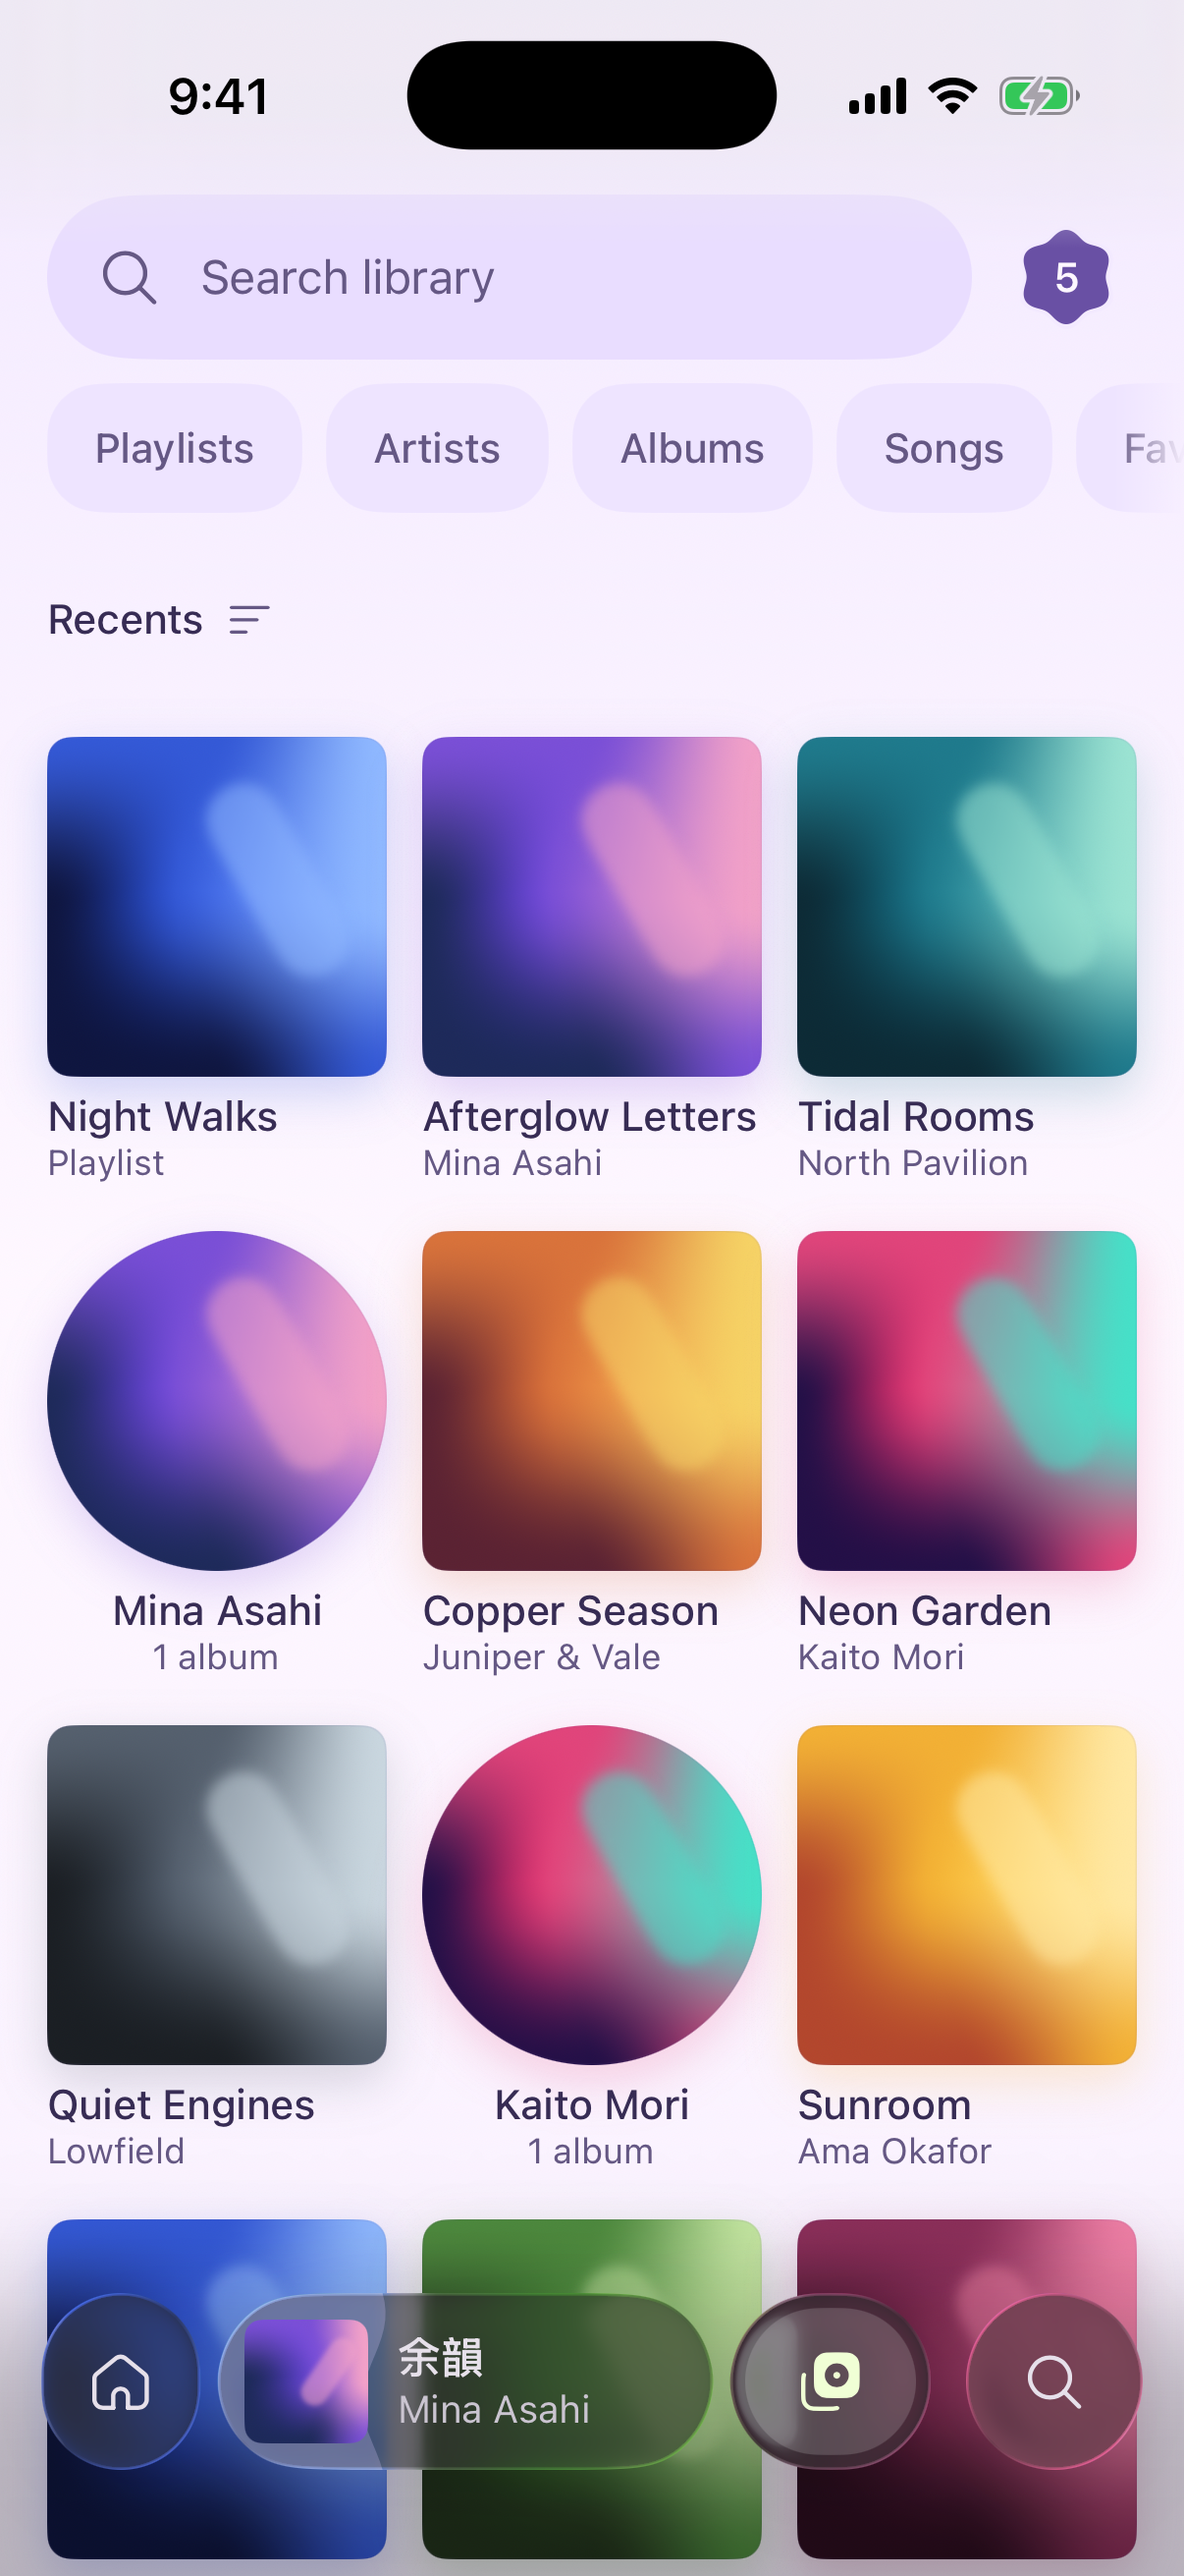
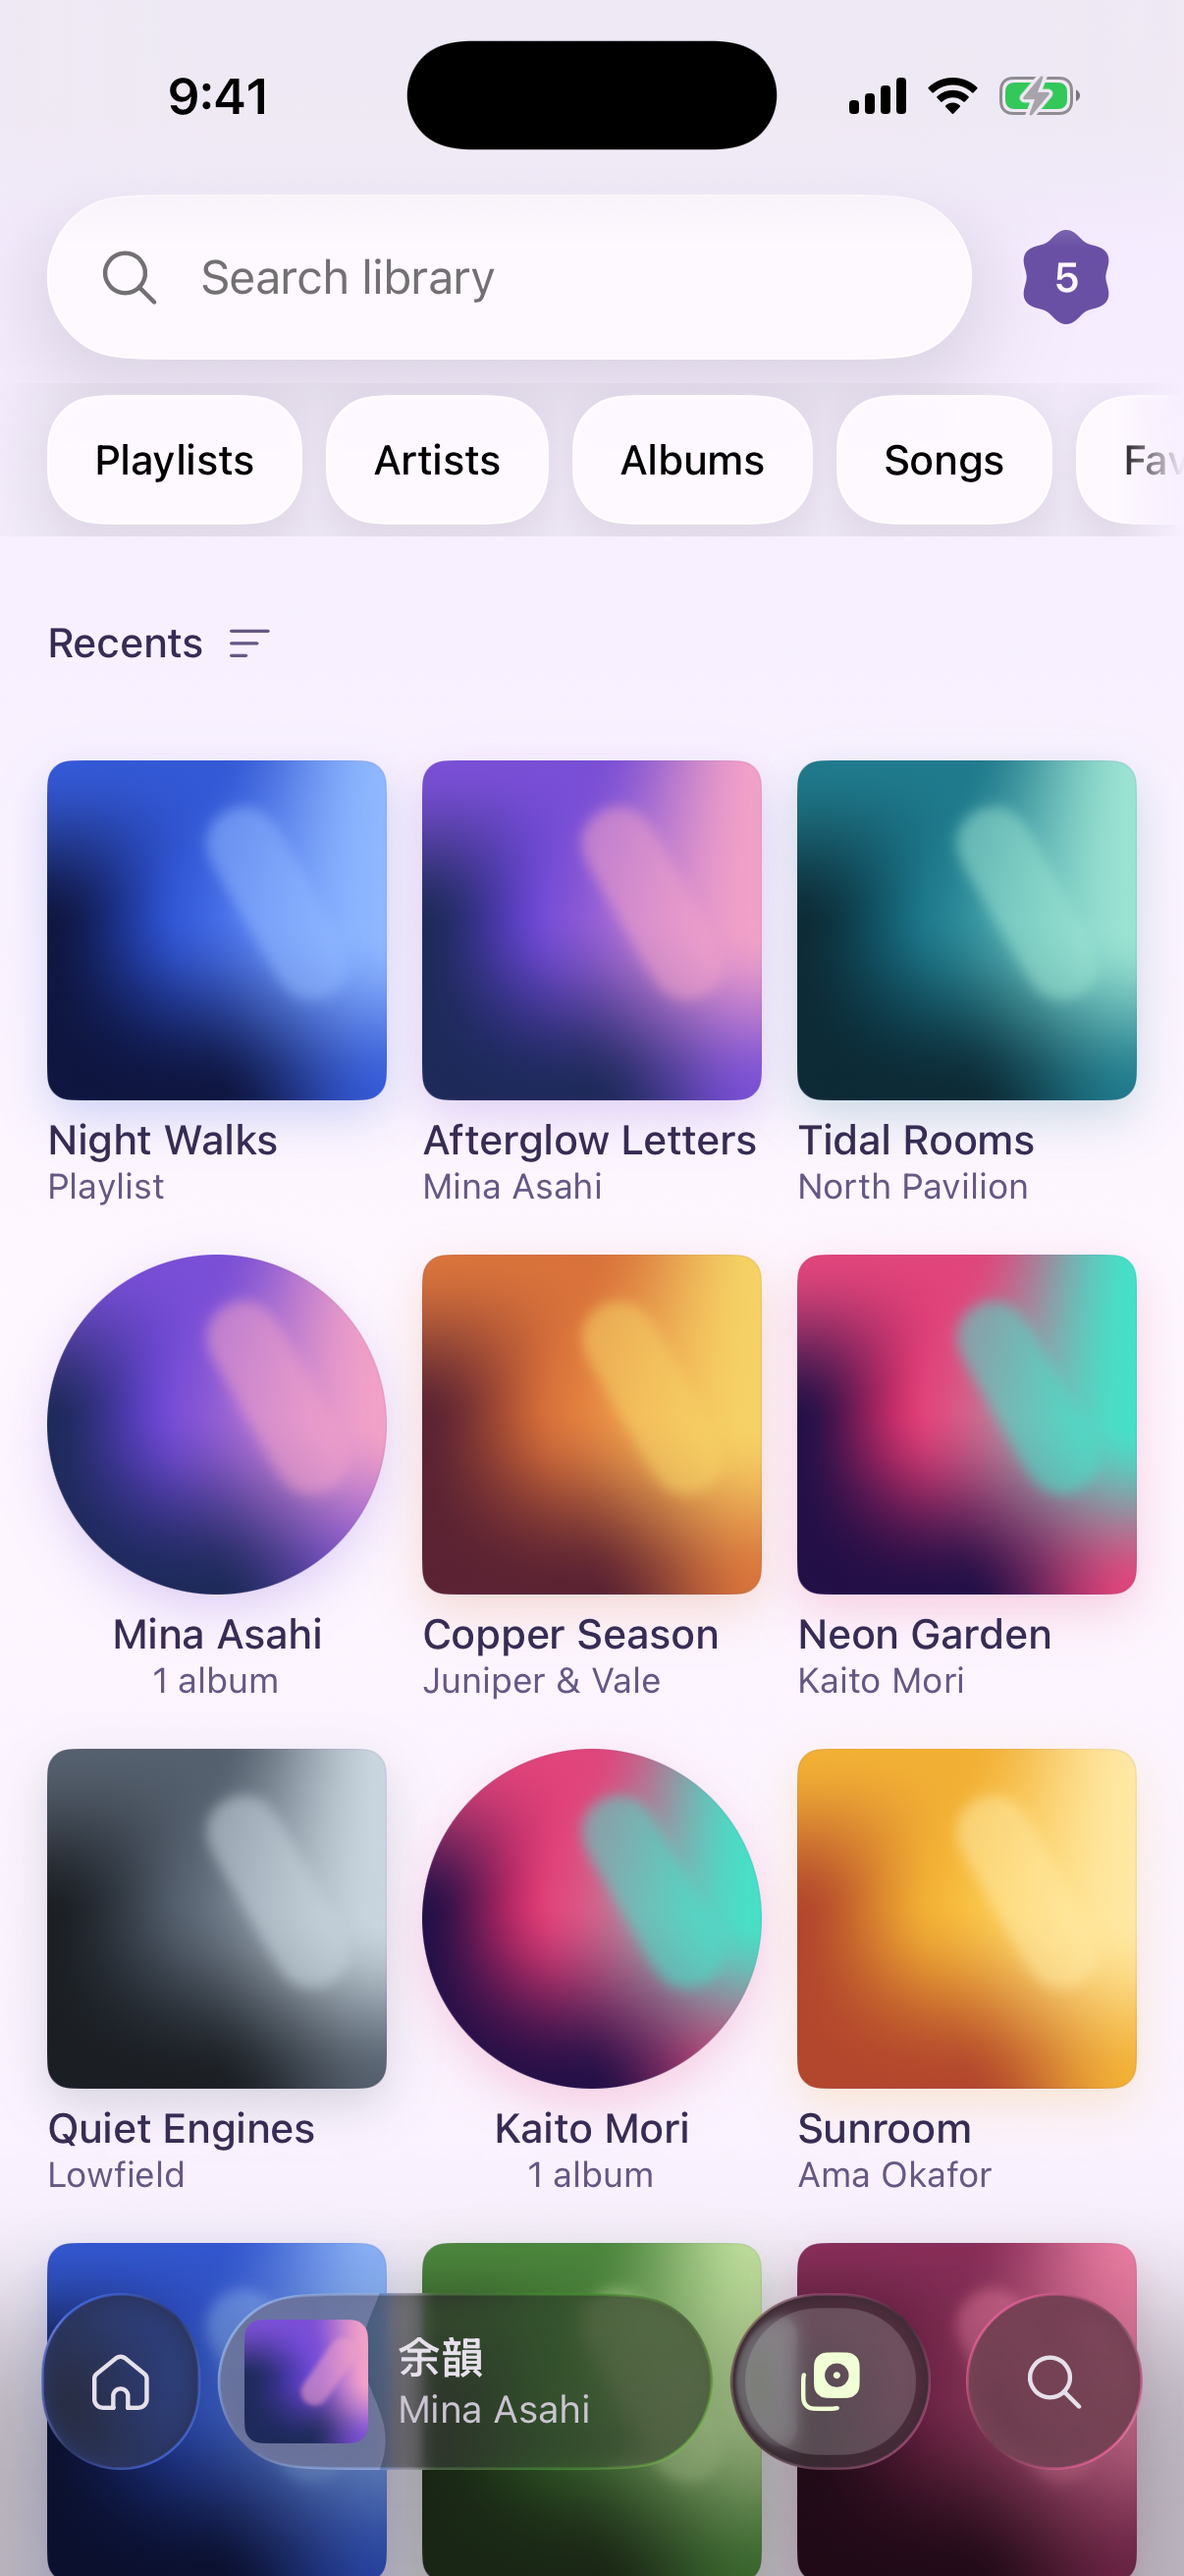
ios: glass rule (pinned controls are glass, page content is not); Balanced is the default preset

diff --git a/iosApp/Yoin/Library/LibraryView.swift b/iosApp/Yoin/Library/LibraryView.swift
@@ -76,8 +76,6 @@ struct LibraryView: View {
     var body: some View {
         ScrollView {
             VStack(alignment: .leading, spacing: 4) {
-                header
-                chips
                 Group {
                     if filter == .songs || filter == .favorites {
                         songList
@@ -91,6 +89,16 @@ struct LibraryView: View {
         }
         .contentMargins(.bottom, 24, for: .scrollContent)
         .scrollEdgeEffectStyle(.soft, for: [.top, .bottom])
+        // Header and chips stay put (Android: only the grid scrolls) and float
+        // over the grid as glass, so they sit in a top safe-area bar and the
+        // system soft edge runs under them.
+        .safeAreaBar(edge: .top) {
+            VStack(alignment: .leading, spacing: 4) {
+                header
+                chips
+            }
+            .padding(.bottom, 4)
+        }
         .scrollPosition($position)
         .onScrollGeometryChange(for: ScrollMetrics.self) {
             ScrollMetrics(offset: $0.contentOffset.y + $0.contentInsets.top, content: $0.contentSize.height,
@@ -111,7 +119,7 @@ struct LibraryView: View {
                         wake()
                     },
                     held: $held)
-                .padding(.top, 140)
+                .padding(.top, 136) // below the header and chips
                 .padding(.bottom, 96)
             }
         }
@@ -146,16 +154,17 @@ struct LibraryView: View {
         HStack(spacing: 8) {
             Button { withAnimation(Yoin.spatial) { model.searchActive = true } } label: {
                 HStack(spacing: 12) {
-                    YoinIcon("search", size: 24).foregroundStyle(scheme.onSurfaceVariant)
-                    Text("Search library").font(.gsf(16)).foregroundStyle(scheme.onSurfaceVariant)
+                    // Adaptive label colors: they flip with the glass over dark content.
+                    YoinIcon("search", size: 24).foregroundStyle(.secondary)
+                    Text("Search library").font(.gsf(16)).foregroundStyle(.secondary)
                     Spacer()
                 }
                 .padding(.horizontal, 16)
                 .frame(height: 56)
-                .background(scheme.surfaceContainerHighest, in: .capsule)
                 .contentShape(.capsule)
             }
             .buttonStyle(.plain)
+            .glassEffect(.regular.interactive(), in: .capsule)
             Button {} label: {
                 Text("5")
                     .font(.gsf(14, .semibold))
@@ -178,15 +187,16 @@ struct LibraryView: View {
 
     private var chips: some View {
         ScrollView(.horizontal) {
-            HStack(spacing: 8) {
+            GlassEffectContainer(spacing: 4) { HStack(spacing: 8) {
                 if filter != nil {
                     Button { withAnimation(Yoin.spatial) { filter = nil } } label: {
                         YoinIcon("close", size: 20)
-                            .foregroundStyle(scheme.onSurfaceVariant)
+                            .foregroundStyle(.primary)
                             .frame(width: 44, height: 44)
-                            .background(scheme.surfaceContainerHigh, in: .circle)
+                            .contentShape(.circle)
                     }
-                    .buttonStyle(PressScale())
+                    .buttonStyle(.plain)
+                    .glassEffect(.regular.interactive(), in: .circle)
                     .transition(.scale(scale: 0.6, anchor: .leading).combined(with: .opacity))
                     .accessibilityLabel("Clear filter")
                 }
@@ -194,20 +204,24 @@ struct LibraryView: View {
                     let on = filter == kind
                     Button { withAnimation(Yoin.spatial) { filter = on ? nil : kind } } label: {
                         Text(kind.rawValue)
-                            .font(.gsf(14, .medium))
-                            .foregroundStyle(on ? scheme.onSecondaryContainer : scheme.onSurfaceVariant)
+                            .font(.gsf(14, on ? .semibold : .medium))
+                            .foregroundStyle(on ? AnyShapeStyle(scheme.primary) : AnyShapeStyle(.primary))
                             .lineLimit(1)
                             .padding(.horizontal, 16)
                             .padding(.vertical, 10)
                             .frame(minHeight: 44)
-                            .background(on ? scheme.secondaryContainer : scheme.surfaceContainerHigh,
-                                        in: .rect(cornerRadius: 18))
+                            .background { if on { SelectionPill(cornerRadius: 14) } }
+                            .contentShape(.rect(cornerRadius: 18))
                     }
-                    .buttonStyle(PressScale())
+                    .buttonStyle(.plain)
+                    // Pinned chips float over the grid: untinted glass; the
+                    // selected one in the bar's accent style.
+                    .glassEffect(.regular.interactive(), in: .rect(cornerRadius: 18))
                 }
             }
             .padding(.leading, filter == nil ? 16 : 8)
             .padding(.trailing, 16)
+            .padding(.vertical, 4) }
         }
         .scrollIndicators(.hidden)
         .mask(

diff --git a/iosApp/Yoin/Library/LibraryFastScroller.swift b/iosApp/Yoin/Library/LibraryFastScroller.swift
@@ -43,11 +43,11 @@ struct LibraryFastScroller: View {
                     HStack(alignment: .top, spacing: 8) {
                         Text(current?.label ?? "")
                             .font(.gsf(22)).monospacedDigit()
-                            .foregroundStyle(scheme.onPrimaryContainer)
+                            .foregroundStyle(scheme.primary)
                             .lineLimit(1)
                             .padding(.horizontal, 16)
                             .frame(minWidth: 56, minHeight: 56)
-                            .background(scheme.primaryContainer, in: .rect(cornerRadius: 28))
+                            .glassEffect(.regular, in: .rect(cornerRadius: 28))
                             .offset(y: min(max(0, thumbY + 32 - 28), g.size.height - 56))
                             .transition(.scale(scale: 0.6, anchor: .trailing).combined(with: .opacity))
                         ZStack(alignment: .top) {
@@ -55,14 +55,14 @@ struct LibraryFastScroller: View {
                                 let on = t.0 == current?.label
                                 Text(t.0)
                                     .font(.gsf(12, on ? .semibold : .medium)).monospacedDigit()
-                                    .foregroundStyle(on ? scheme.primary : scheme.onSurfaceVariant)
+                                    .foregroundStyle(on ? AnyShapeStyle(scheme.primary) : AnyShapeStyle(.secondary))
                                     .lineLimit(1)
                                     .fixedSize()
                                     .position(x: tickWidth / 2, y: t.1)
                             }
                         }
                         .frame(width: tickWidth, height: g.size.height)
-                        .background(scheme.surfaceContainerHigh, in: .rect(cornerRadius: 28))
+                        .glassEffect(.regular, in: .rect(cornerRadius: 28))
                         .transition(.scale(scale: 0.92, anchor: .trailing).combined(with: .opacity))
                     }
                     .padding(.trailing, 24 + 4)
@@ -118,12 +118,13 @@ struct LibraryFastScroller: View {
     }
 
     private func thumb(held: Bool) -> some View {
-        let fill = held ? scheme.primary : scheme.secondaryContainer
-        let ink = held ? scheme.onPrimary : scheme.onSecondaryContainer
+        // Untinted glass; held = the bar's accent style (accent chevrons on a pill).
+        let ink: AnyShapeStyle = held ? AnyShapeStyle(scheme.primary) : AnyShapeStyle(.primary)
+        let shape = UnevenRoundedRectangle(topLeadingRadius: 12, bottomLeadingRadius: 12,
+                                           bottomTrailingRadius: 4, topTrailingRadius: 4)
         return ZStack {
-            UnevenRoundedRectangle(topLeadingRadius: 12, bottomLeadingRadius: 12,
-                                   bottomTrailingRadius: 4, topTrailingRadius: 4)
-                .fill(fill)
+            shape.fill(.clear).glassEffect(.regular.interactive(), in: shape)
+            if held { SelectionPill(cornerRadius: 9) }
             Path { p in
                 // Up and down chevrons: tips at ±6.5, half-width 4, rise 3.
                 p.move(to: CGPoint(x: 8, y: 24 - 6.5 + 3)); p.addLine(to: CGPoint(x: 12, y: 24 - 6.5))

diff --git a/iosApp/Yoin/Theme/GlassLab.swift b/iosApp/Yoin/Theme/GlassLab.swift
@@ -62,8 +62,8 @@ struct SurfaceStyle: Codable, Equatable, Sendable {
     var contrastShadow: Double = 0
 }
 
-/// Glass Lab (debug): live, persisted glass parameters per surface. Defaults
-/// are the shipped values, so nothing changes until a control is touched.
+/// Glass Lab (debug): live, persisted glass parameters per surface. The
+/// default is the Balanced preset; Current and Apple HIG stay for comparison.
 /// Open with `-glassLab 1` or a three-finger long-press.
 @MainActor
 @Observable
@@ -122,19 +122,23 @@ final class GlassLab {
     var appearance = 0 { didSet { save() } }
     var styles: [String: SurfaceStyle] = [:] { didSet { save() } }
     var extras: [String: Double] = [:] { didSet { save() } }
-    var preset: GlassPreset = .current { didSet { save() } }
+    var preset: GlassPreset = .balanced { didSet { save() } }
     var panelOpen = false
     var panelAtTop = false
     var panelCollapsed = false
 
-    private static let key = "glassLab.v1"
+    /// v2: Balanced became the default (51, 2026-11-03), so older saved
+    /// values (Current) don't carry over.
+    private static let key = "glassLab.v2"
 
     private init() {
-        resetValues()
+        suppressSave = true
+        apply(.balanced)
+        suppressSave = false
         if let data = UserDefaults.standard.data(forKey: Self.key),
            let saved = try? JSONDecoder().decode(Saved.self, from: data) {
             appearance = saved.appearance
-            preset = saved.preset ?? .current
+            preset = saved.preset ?? .balanced
             styles.merge(saved.styles) { _, new in new }
             extras.merge(saved.extras) { _, new in new }
         }
@@ -169,9 +173,9 @@ final class GlassLab {
         extras = e
     }
 
+    /// Back to the shipped defaults: the Balanced preset.
     func reset() {
-        resetValues()
-        preset = .current
+        apply(.balanced)
         appearance = 0
     }
 

diff --git a/iosApp/Yoin/Artist/ArtistDetailView.swift b/iosApp/Yoin/Artist/ArtistDetailView.swift
@@ -108,12 +108,15 @@ struct ArtistDetailView: View {
             Button {
                 withAnimation(.spring(duration: 0.09)) { following.toggle() }
             } label: {
-                YoinIcon(following ? "star_filled" : "star", size: 24)
-                    .foregroundStyle(following ? s.primary : app.onSurfaceVariant)
-                    .frame(width: 48, height: 48)
-                    .contentShape(.rect)
+                YoinIcon(following ? "star_filled" : "star", size: 22)
+                    .foregroundStyle(following ? AnyShapeStyle(s.primary) : AnyShapeStyle(.primary))
+                    .frame(width: 40, height: 40)
+                    .contentShape(.circle)
             }
-            .buttonStyle(PressScale())
+            .buttonStyle(.plain)
+            // Pinned header button over scrolling content: a glass circle.
+            .glassEffect(.regular.interactive(), in: .circle)
+            .frame(width: 48, height: 48)
             .accessibilityLabel(following ? "Favorited" : "Favorite")
         }
         .padding(.leading, 8).padding(.trailing, 4).padding(.top, 4).padding(.bottom, 6)
@@ -250,6 +253,7 @@ struct ArtistDetailView: View {
                 .lineLimit(1)
                 .padding(.horizontal, 16).padding(.vertical, 10)
                 .frame(minHeight: 44)
+                // These chips scroll with the page, so they stay solid (not glass).
                 .background(on ? app.secondaryContainer : app.surfaceContainerHigh, in: .rect(cornerRadius: 18))
         }
         .buttonStyle(PressScale())

diff --git a/iosApp/Yoin/Search/SearchView.swift b/iosApp/Yoin/Search/SearchView.swift
@@ -126,12 +126,14 @@ struct SearchView: View {
                     Button { withAnimation(Yoin.spatial) { filter = f } } label: {
                         Text(f.rawValue)
                             .font(.gsf(14, .medium))
-                            .foregroundStyle(on ? scheme.onPrimary : Yoin.ink)
+                            .foregroundStyle(on ? AnyShapeStyle(scheme.primary) : AnyShapeStyle(.primary))
                             .padding(.horizontal, 14)
                             .frame(height: 34)
-                            .background(on ? scheme.primary : Yoin.surfaceContainerHigh, in: .capsule)
+                            .background { if on { SelectionPill(cornerRadius: 13) } }
+                            .contentShape(.capsule)
                     }
-                    .buttonStyle(PressScale())
+                    .buttonStyle(.plain)
+                    .glassEffect(.regular.interactive(), in: .capsule)
                 }
             }
         }

diff --git a/iosApp/Yoin/Album/AlbumDetailView.swift b/iosApp/Yoin/Album/AlbumDetailView.swift
@@ -152,12 +152,15 @@ struct AlbumDetailView: View {
                         Button("Rename") {}
                         Button("Delete", role: .destructive) {}
                     } label: {
-                        YoinIcon("more_vertical", size: 24)
+                        YoinIcon("more_vertical", size: 22)
                             .foregroundStyle(ink)
-                            .frame(width: 48, height: 48)
-                            .contentShape(.rect)
+                            .frame(width: 40, height: 40)
+                            .contentShape(.circle)
                     }
                     .buttonStyle(.plain)
+                    .glassEffect(white ? .regular.tint(.white.opacity(0.18)).interactive() : .regular.interactive(),
+                                 in: .circle)
+                    .frame(width: 48, height: 48)
                     .accessibilityLabel("More actions")
                     .padding(.trailing, -12)
                 }

diff --git a/iosApp/Yoin/Theme/Components.swift b/iosApp/Yoin/Theme/Components.swift
@@ -51,3 +51,15 @@ struct CookieBadge: View {
         .accessibilityLabel(String(format: "Rating %.1f", score))
     }
 }
+
+/// The bar's accent-style selection: a subtle pill inside the glass (grey on
+/// light glass, light on dark), under accent-colored text.
+struct SelectionPill: View {
+    var cornerRadius: CGFloat
+    @Environment(\.colorScheme) private var colorScheme
+    var body: some View {
+        RoundedRectangle(cornerRadius: cornerRadius, style: .continuous)
+            .fill(colorScheme == .dark ? Color.white.opacity(0.16) : Color.black.opacity(0.07))
+            .padding(3)
+    }
+}
